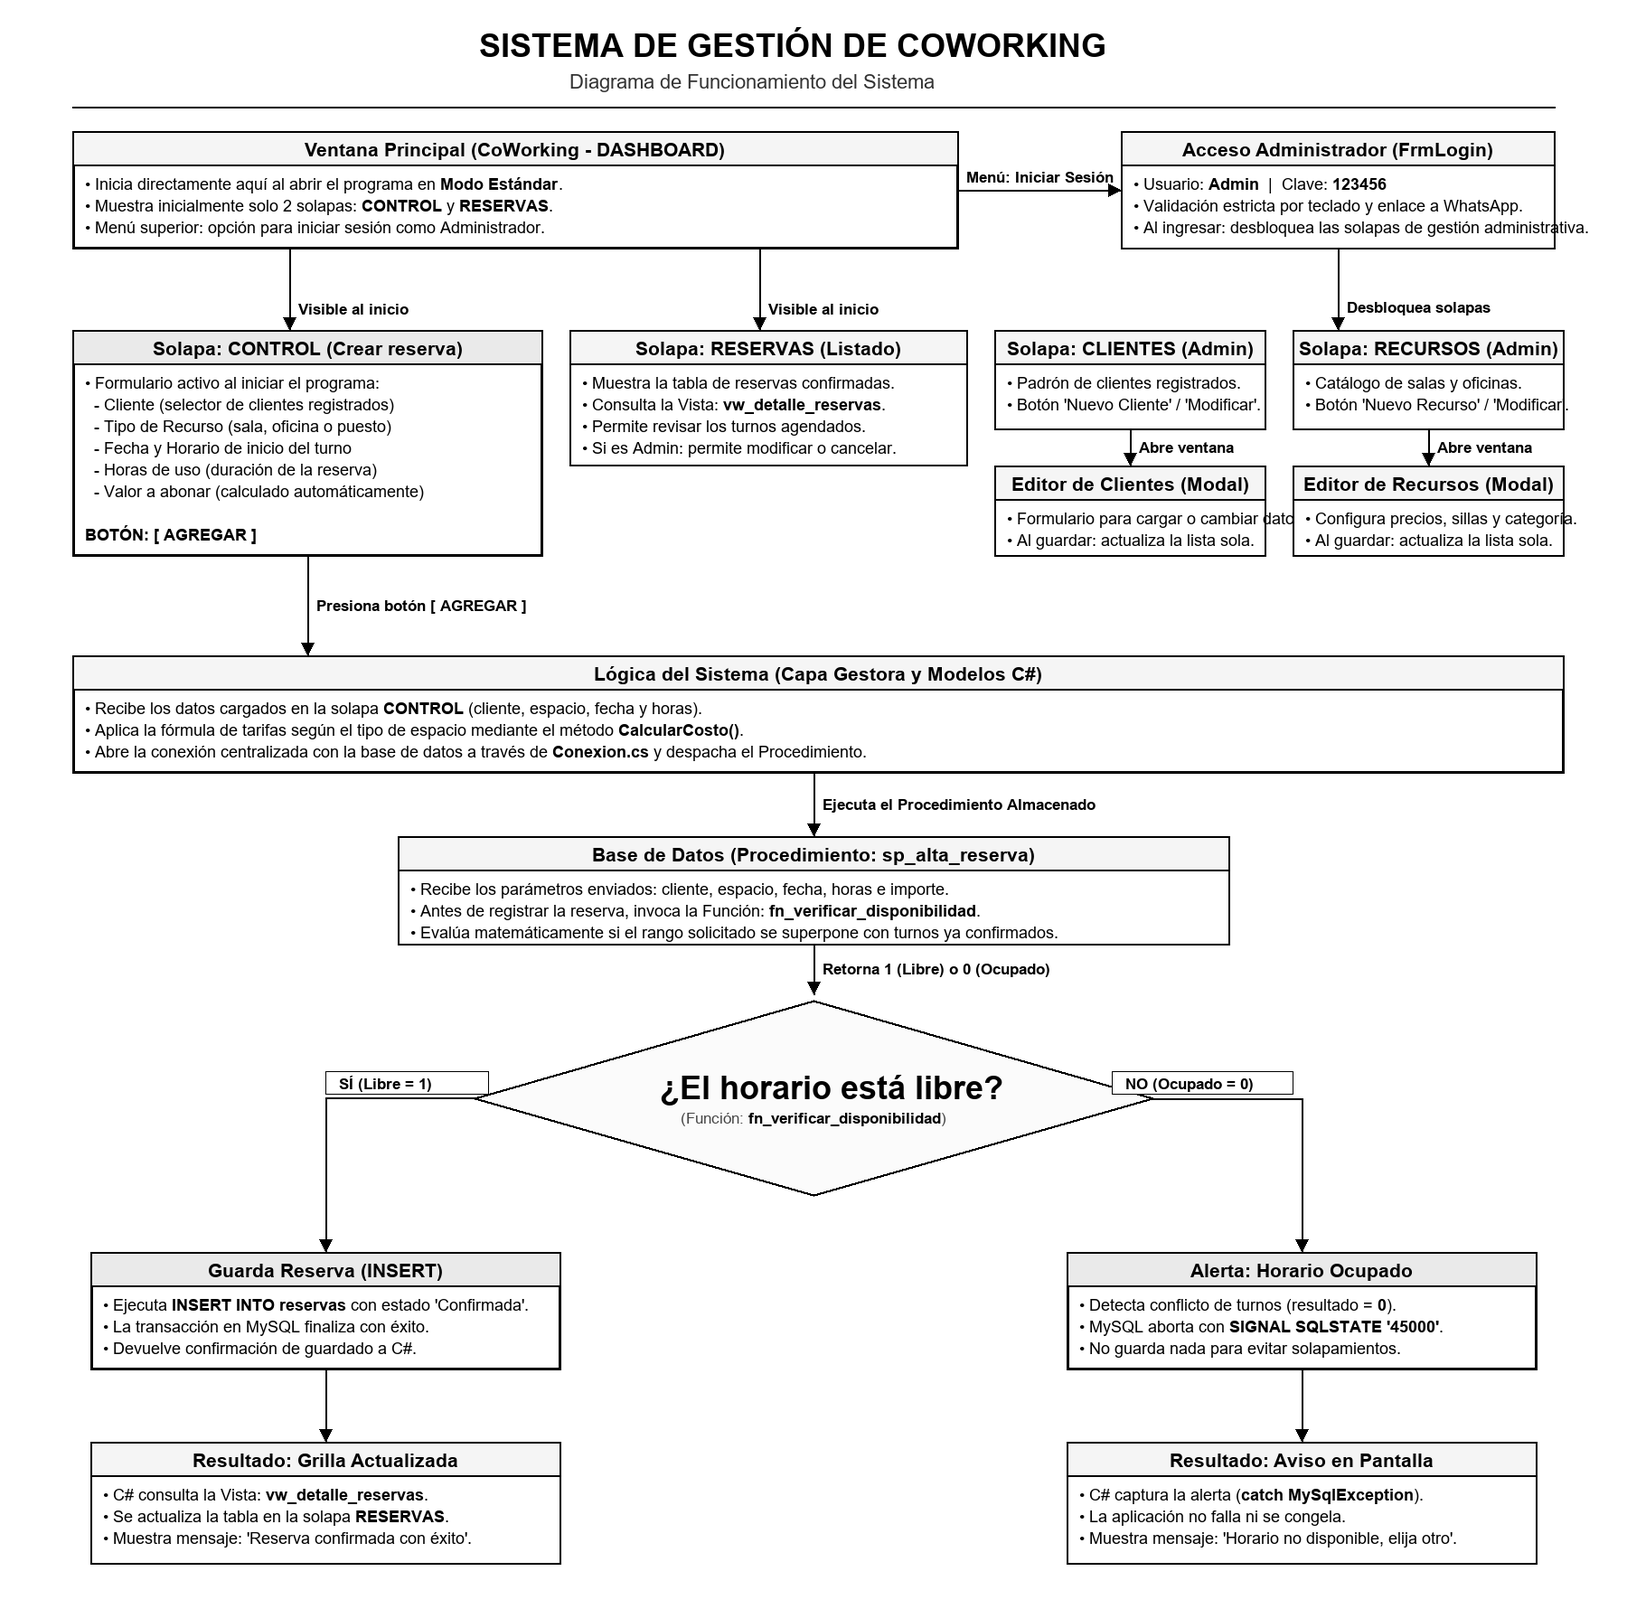
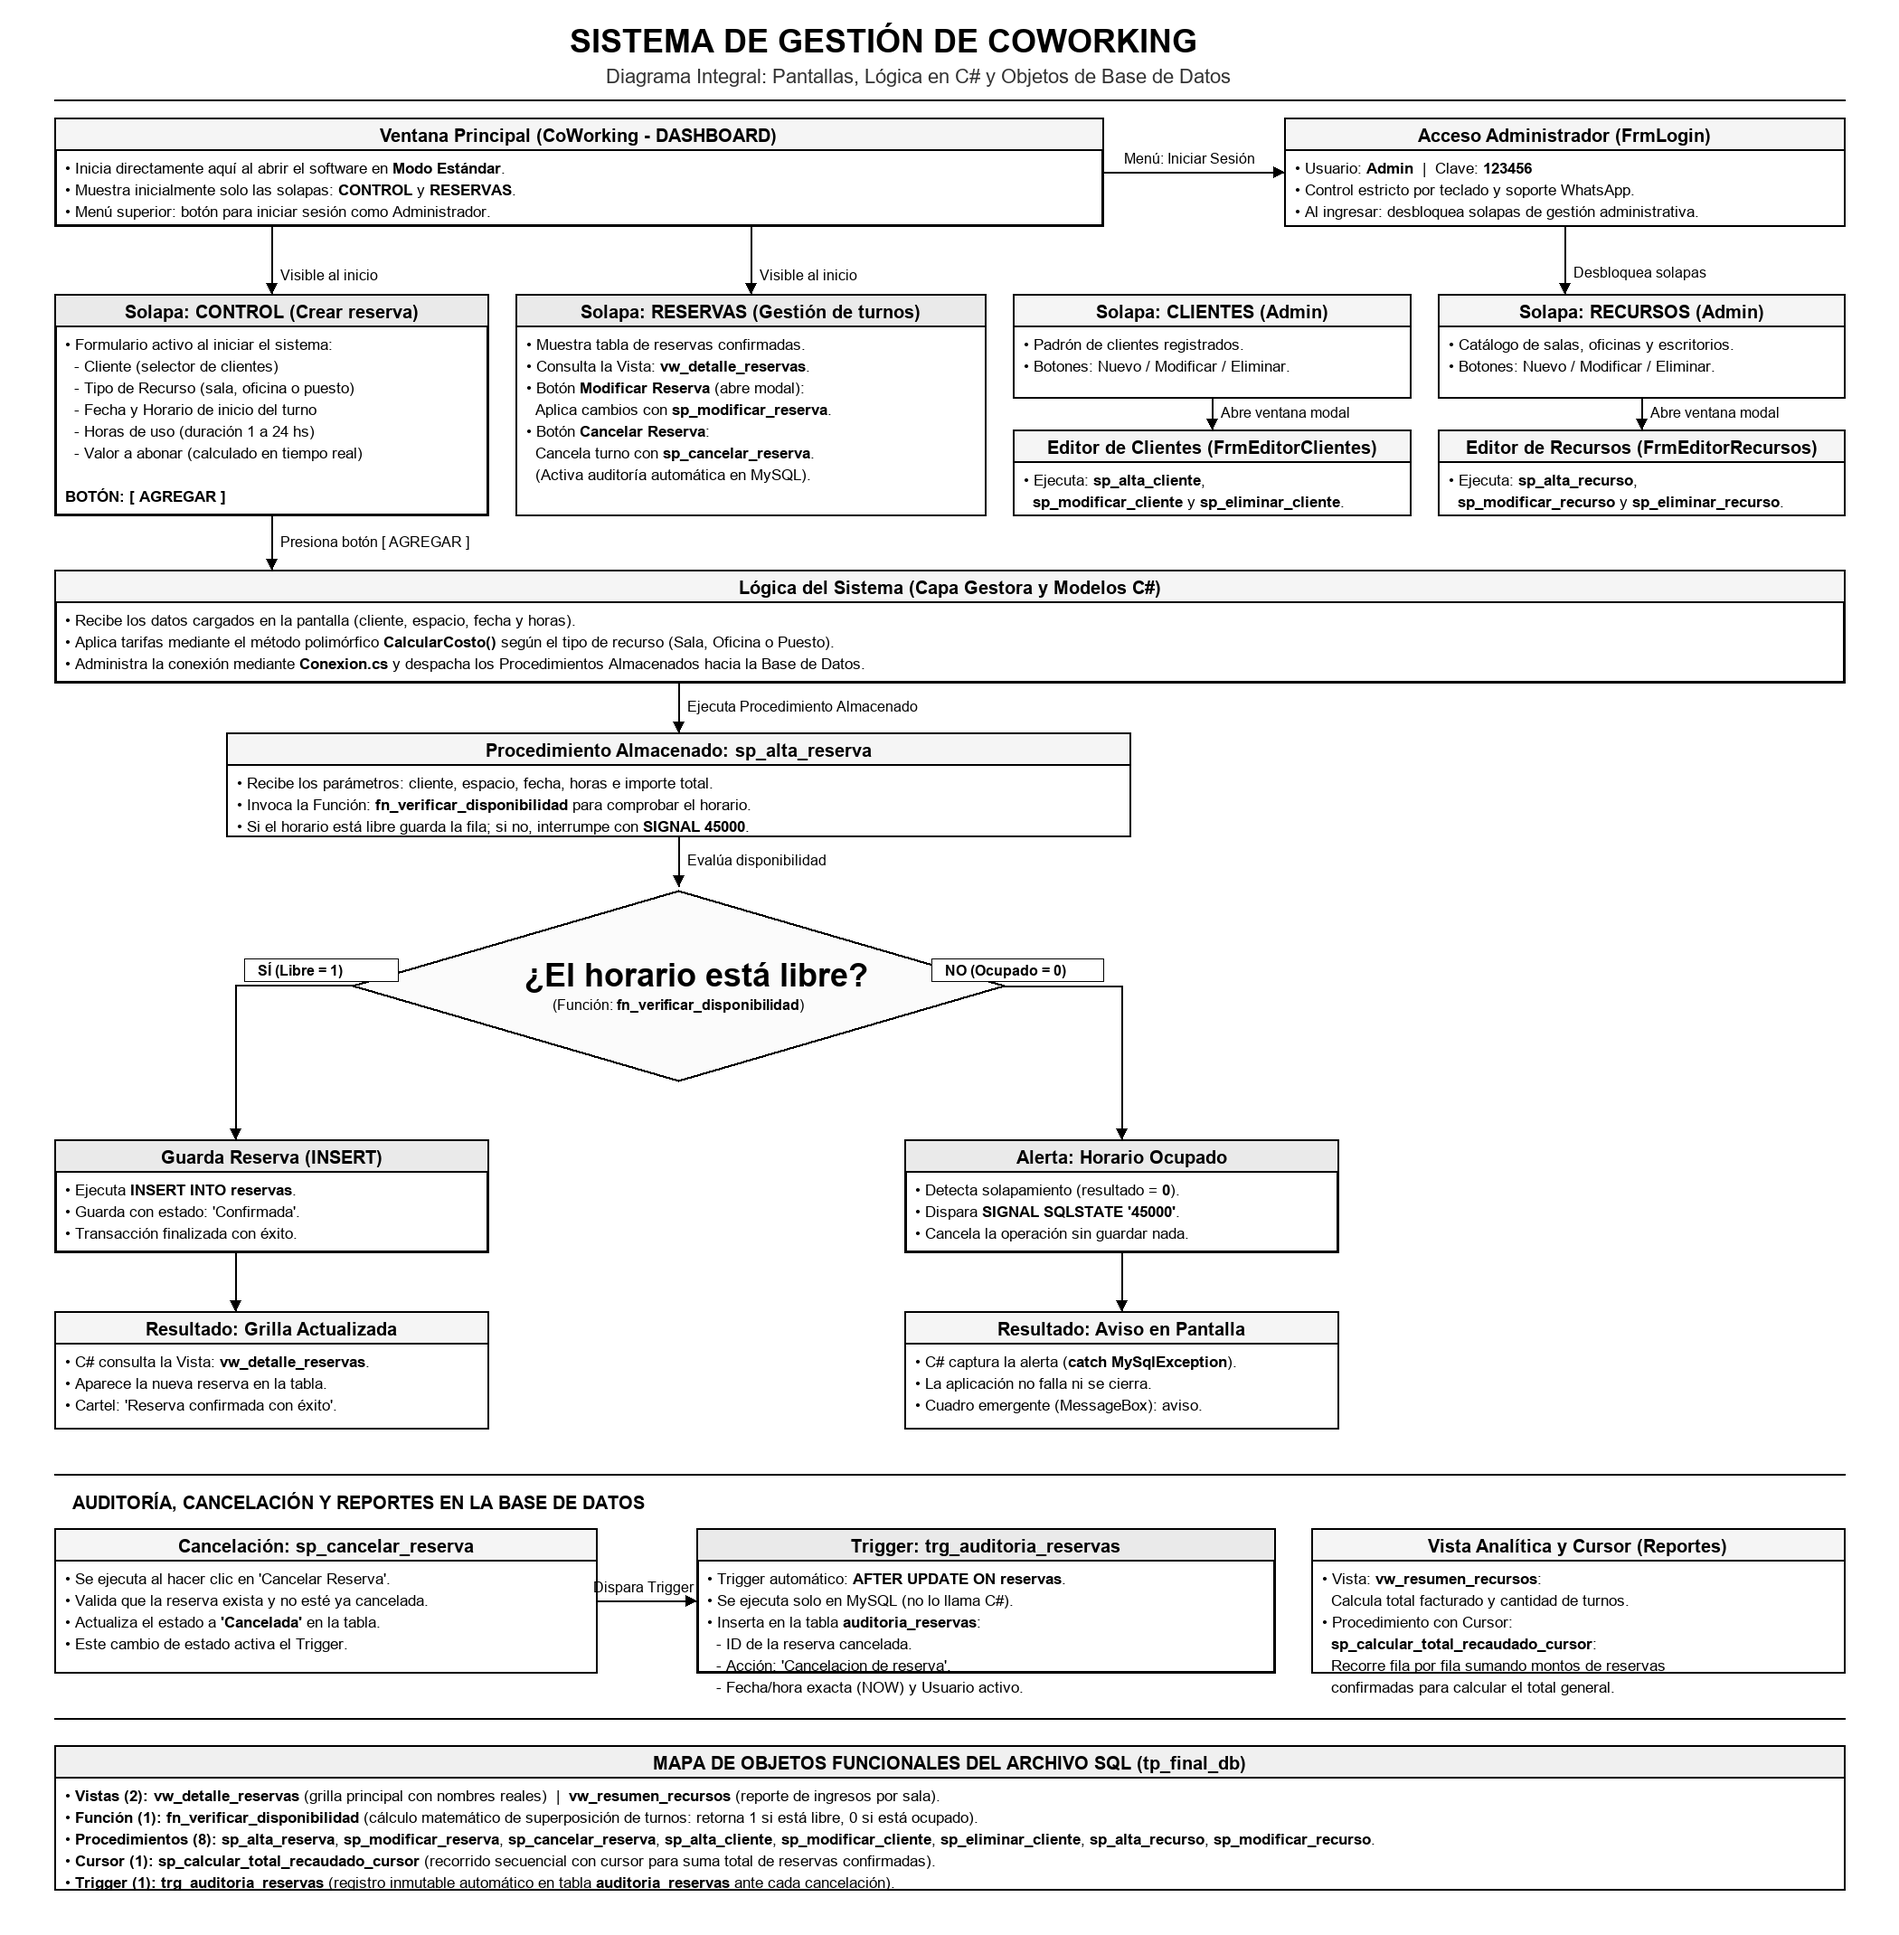
Agregue todos los objetos funcionales de sql al diagrama (vistas, trigger, cursor y procedimientos)

diff --git a/Documentacion/generate_complete_sql_diagram.py b/Documentacion/generate_complete_sql_diagram.py
@@ -1,0 +1,298 @@
+# -*- coding: utf-8 -*-
+import re
+from PIL import Image, ImageDraw, ImageFont
+
+# Canvas amplio de alta resolucion (2100 x 2550)
+W = 2100
+H = 2550
+img = Image.new("RGB", (W, H), color="#FFFFFF")
+draw = ImageDraw.Draw(img)
+
+# Fuentes
+try:
+    font_main_title = ImageFont.truetype("arialbd.ttf", 36)
+    font_main_sub   = ImageFont.truetype("arial.ttf", 22)
+    font_box_title  = ImageFont.truetype("arialbd.ttf", 20)
+    font_text       = ImageFont.truetype("arial.ttf", 17)
+    font_bold       = ImageFont.truetype("arialbd.ttf", 17)
+    font_lbl        = ImageFont.truetype("arialbd.ttf", 16)
+    font_lbl_reg    = ImageFont.truetype("arial.ttf", 16)
+except:
+    font_main_title = font_main_sub = font_box_title = font_text = font_bold = font_lbl = font_lbl_reg = ImageFont.load_default()
+
+def draw_rich_text(draw, x, y, text, default_font, bold_font, color="#000000"):
+    """Dibuja texto soportando etiquetas <b>...</b> para negrita."""
+    parts = re.split(r"(<b>.*?</b>)", text)
+    curr_x = x
+    for part in parts:
+        if not part:
+            continue
+        if part.startswith("<b>") and part.endswith("</b>"):
+            clean_part = part[3:-4]
+            f = bold_font
+        else:
+            clean_part = part
+            f = default_font
+        draw.text((curr_x, y), clean_part, fill=color, font=f)
+        bbox = draw.textbbox((0, 0), clean_part, font=f)
+        curr_x += (bbox[2] - bbox[0])
+
+def draw_box(x, y, w, h, title, lines=[], fill_header="#F5F5F5", border_w=2):
+    draw.rectangle([x, y, x + w, y + h], fill="#FFFFFF", outline="#000000", width=border_w)
+    header_h = 36
+    draw.rectangle([x, y, x + w, y + header_h], fill=fill_header, outline="#000000", width=2)
+    
+    # Titulo cabecera centrado
+    parts = re.split(r"(<b>.*?</b>)", title)
+    total_w = 0
+    for part in parts:
+        if not part: continue
+        clean_part = part[3:-4] if (part.startswith("<b>") and part.endswith("</b>")) else part
+        bbox = draw.textbbox((0, 0), clean_part, font=font_box_title)
+        total_w += (bbox[2] - bbox[0])
+    
+    start_x = x + (w - total_w) / 2
+    draw_rich_text(draw, start_x, y + 8, title, font_box_title, font_box_title)
+    
+    # Lineas
+    curr_y = y + header_h + 10
+    for line in lines:
+        draw_rich_text(draw, x + 12, curr_y, line, font_text, font_bold)
+        curr_y += 24
+
+def draw_arrow_down(x, y1, y2, label=""):
+    draw.line([x, y1, x, y2], fill="#000000", width=2)
+    draw.polygon([(x, y2), (x - 6, y2 - 12), (x + 6, y2 - 12)], fill="#000000")
+    if label:
+        draw_rich_text(draw, x + 10, (y1 + y2) / 2 - 10, label, font_lbl_reg, font_lbl)
+
+def draw_arrow_right(x1, y, x2, label=""):
+    draw.line([x1, y, x2, y], fill="#000000", width=2)
+    draw.polygon([(x2, y), (x2 - 12, y - 6), (x2 - 12, y + 6)], fill="#000000")
+    if label:
+        bbox = draw.textbbox((0, 0), label.replace("<b>", "").replace("</b>", ""), font=font_lbl)
+        tw = bbox[2] - bbox[0]
+        draw_rich_text(draw, (x1 + x2 - tw) / 2, y - 24, label, font_lbl_reg, font_lbl)
+
+# =========================================================================
+# TÍTULO SUPERIOR
+# =========================================================================
+draw.text((W/2 - 420, 25), "SISTEMA DE GESTIÓN DE COWORKING", fill="#000000", font=font_main_title)
+draw.text((W/2 - 380, 72), "Diagrama Integral: Pantallas, Lógica en C# y Objetos de Base de Datos", fill="#333333", font=font_main_sub)
+draw.line([60, 110, W - 60, 110], fill="#000000", width=2)
+
+# =========================================================================
+# 1. PANTALLA PRINCIPAL Y ACCESO ADMINISTRADOR
+# =========================================================================
+draw_box(60, 130, 1160, 120, "Ventana Principal (CoWorking - DASHBOARD)", [
+    "• Inicia directamente aquí al abrir el software en <b>Modo Estándar</b>.",
+    "• Muestra inicialmente solo las solapas: <b>CONTROL</b> y <b>RESERVAS</b>.",
+    "• Menú superior: botón para iniciar sesión como Administrador."
+], border_w=3)
+
+draw_arrow_right(1220, 190, 1420, "Menú: Iniciar Sesión")
+
+draw_box(1420, 130, 620, 120, "Acceso Administrador (FrmLogin)", [
+    "• Usuario: <b>Admin</b>  |  Clave: <b>123456</b>",
+    "• Control estricto por teclado y soporte WhatsApp.",
+    "• Al ingresar: desbloquea solapas de gestión administrativa."
+])
+
+# Flecha desde Login hacia solapas admin
+draw.line([1730, 250, 1730, 280], fill="#000000", width=2)
+draw_arrow_down(1730, 280, 325, "Desbloquea solapas")
+
+# Flecha desde FrmPrincipal hacia las 2 solapas iniciales
+draw.line([300, 250, 300, 285], fill="#000000", width=2)
+draw.line([830, 250, 830, 285], fill="#000000", width=2)
+draw_arrow_down(300, 285, 325, "Visible al inicio")
+draw_arrow_down(830, 285, 325, "Visible al inicio")
+
+# =========================================================================
+# 2. SOLAPAS DE LA VENTANA PRINCIPAL (UI)
+# =========================================================================
+# SOLAPA 1: CONTROL (Crear Reserva)
+draw_box(60, 325, 480, 245, "Solapa: CONTROL (Crear reserva)", [
+    "• Formulario activo al iniciar el sistema:",
+    "  - Cliente (selector de clientes)",
+    "  - Tipo de Recurso (sala, oficina o puesto)",
+    "  - Fecha y Horario de inicio del turno",
+    "  - Horas de uso (duración 1 a 24 hs)",
+    "  - Valor a abonar (calculado en tiempo real)",
+    "",
+    "<b>BOTÓN: [ AGREGAR ]</b>"
+], fill_header="#EAEAEA", border_w=3)
+
+# SOLAPA 2: RESERVAS (Grilla y Acciones de turno)
+draw_box(570, 325, 520, 245, "Solapa: RESERVAS (Gestión de turnos)", [
+    "• Muestra tabla de reservas confirmadas.",
+    "• Consulta la Vista: <b>vw_detalle_reservas</b>.",
+    "• Botón <b>Modificar Reserva</b> (abre modal):",
+    "  Aplica cambios con <b>sp_modificar_reserva</b>.",
+    "• Botón <b>Cancelar Reserva</b>:",
+    "  Cancela turno con <b>sp_cancelar_reserva</b>.",
+    "  (Activa auditoría automática en MySQL)."
+], fill_header="#EAEAEA", border_w=2)
+
+# SOLAPAS DESBLOQUEADAS POR ADMIN (Derecha)
+draw_box(1120, 325, 440, 115, "Solapa: CLIENTES (Admin)", [
+    "• Padrón de clientes registrados.",
+    "• Botones: Nuevo / Modificar / Eliminar."
+])
+draw_arrow_down(1340, 440, 475, "Abre ventana modal")
+draw_box(1120, 475, 440, 95, "Editor de Clientes (FrmEditorClientes)", [
+    "• Ejecuta: <b>sp_alta_cliente</b>,",
+    "  <b>sp_modificar_cliente</b> y <b>sp_eliminar_cliente</b>."
+])
+
+draw_box(1590, 325, 450, 115, "Solapa: RECURSOS (Admin)", [
+    "• Catálogo de salas, oficinas y escritorios.",
+    "• Botones: Nuevo / Modificar / Eliminar."
+])
+draw_arrow_down(1815, 440, 475, "Abre ventana modal")
+draw_box(1590, 475, 450, 95, "Editor de Recursos (FrmEditorRecursos)", [
+    "• Ejecuta: <b>sp_alta_recurso</b>,",
+    "  <b>sp_modificar_recurso</b> y <b>sp_eliminar_recurso</b>."
+])
+
+# =========================================================================
+# 3. LÓGICA DE NEGOCIO (C# .NET)
+# =========================================================================
+draw_arrow_down(300, 570, 630, "Presiona botón [ AGREGAR ]")
+
+draw_box(60, 630, 1980, 125, "Lógica del Sistema (Capa Gestora y Modelos C#)", [
+    "• Recibe los datos cargados en la pantalla (cliente, espacio, fecha y horas).",
+    "• Aplica tarifas mediante el método polimórfico <b>CalcularCosto()</b> según el tipo de recurso (Sala, Oficina o Puesto).",
+    "• Administra la conexión mediante <b>Conexion.cs</b> y despacha los Procedimientos Almacenados hacia la Base de Datos."
+], border_w=3)
+
+# =========================================================================
+# 4. BASE DE DATOS RELACIONAL (MySQL - tp_final_db)
+# =========================================================================
+draw_arrow_down(750, 755, 810, "Ejecuta Procedimiento Almacenado")
+
+# Procedimiento sp_alta_reserva
+draw_box(250, 810, 1000, 115, "Procedimiento Almacenado: <b>sp_alta_reserva</b>", [
+    "• Recibe los parámetros: cliente, espacio, fecha, horas e importe total.",
+    "• Invoca la Función: <b>fn_verificar_disponibilidad</b> para comprobar el horario.",
+    "• Si el horario está libre guarda la fila; si no, interrumpe con <b>SIGNAL 45000</b>."
+], border_w=2)
+
+draw_arrow_down(750, 925, 980, "Evalúa disponibilidad")
+
+# Rombo de decisión disponibilidad
+rx, ry, rw, rh = 750, 1090, 720, 210
+rombo_pts = [(rx, ry - rh/2), (rx + rw/2, ry), (rx, ry + rh/2), (rx - rw/2, ry)]
+draw.polygon(rombo_pts, fill="#FBFBFB", outline="#000000")
+draw.line(rombo_pts + [rombo_pts[0]], fill="#000000", width=3)
+
+draw.text((rx - 170, ry - 32), "¿El horario está libre?", fill="#000000", font=font_main_title)
+
+# Subtexto rombo
+func_txt = "(Función: <b>fn_verificar_disponibilidad</b>)"
+parts = re.split(r"(<b>.*?</b>)", func_txt)
+tw = 0
+for p in parts:
+    clean_p = p[3:-4] if (p.startswith("<b>") and p.endswith("</b>")) else p
+    f = font_lbl if (p.startswith("<b>") and p.endswith("</b>")) else font_lbl_reg
+    bbox = draw.textbbox((0, 0), clean_p, font=f)
+    tw += (bbox[2] - bbox[0])
+draw_rich_text(draw, rx - tw / 2, ry + 12, func_txt, font_lbl_reg, font_lbl)
+
+# -------------------------------------------------------------------------
+# RAMA SÍ: LIBRE = 1 (Izquierda)
+# -------------------------------------------------------------------------
+draw.line([rx - rw/2, ry, 260, ry], fill="#000000", width=2)
+draw_arrow_down(260, ry, 1260, "")
+draw.rectangle([270, ry - 30, 440, ry - 5], fill="#FFFFFF", outline="#000000", width=1)
+draw.text((285, ry - 26), "SÍ (Libre = 1)", fill="#000000", font=font_lbl)
+
+draw_box(60, 1260, 480, 125, "Guarda Reserva (<b>INSERT</b>)", [
+    "• Ejecuta <b>INSERT INTO reservas</b>.",
+    "• Guarda con estado: 'Confirmada'.",
+    "• Transacción finalizada con éxito."
+], fill_header="#EAEAEA", border_w=3)
+
+draw_arrow_down(260, 1385, 1450, "")
+draw_box(60, 1450, 480, 130, "Resultado: Grilla Actualizada", [
+    "• C# consulta la Vista: <b>vw_detalle_reservas</b>.",
+    "• Aparece la nueva reserva en la tabla.",
+    "• Cartel: 'Reserva confirmada con éxito'."
+], border_w=2)
+
+# -------------------------------------------------------------------------
+# RAMA NO: OCUPADO = 0 (Centro / Derecha)
+# -------------------------------------------------------------------------
+draw.line([rx + rw/2, ry, 1240, ry], fill="#000000", width=2)
+draw_arrow_down(1240, ry, 1260, "")
+draw.rectangle([1030, ry - 30, 1220, ry - 5], fill="#FFFFFF", outline="#000000", width=1)
+draw.text((1045, ry - 26), "NO (Ocupado = 0)", fill="#000000", font=font_lbl)
+
+draw_box(1000, 1260, 480, 125, "Alerta: Horario Ocupado", [
+    "• Detecta solapamiento (resultado = <b>0</b>).",
+    "• Dispara <b>SIGNAL SQLSTATE '45000'</b>.",
+    "• Cancela la operación sin guardar nada."
+], fill_header="#EAEAEA", border_w=3)
+
+draw_arrow_down(1240, 1385, 1450, "")
+draw_box(1000, 1450, 480, 130, "Resultado: Aviso en Pantalla", [
+    "• C# captura la alerta (<b>catch MySqlException</b>).",
+    "• La aplicación no falla ni se cierra.",
+    "• Cuadro emergente (MessageBox): aviso."
+], border_w=2)
+
+# =========================================================================
+# 5. MÓDULO DE AUDITORÍA Y CANCELACIONES (MySQL)
+# =========================================================================
+draw.line([60, 1630, W - 60, 1630], fill="#000000", width=2)
+draw.text((80, 1650), "AUDITORÍA, CANCELACIÓN Y REPORTES EN LA BASE DE DATOS", fill="#000000", font=font_box_title)
+
+# Flujo Cancelar -> Trigger
+draw_box(60, 1690, 600, 160, "Cancelación: <b>sp_cancelar_reserva</b>", [
+    "• Se ejecuta al hacer clic en 'Cancelar Reserva'.",
+    "• Valida que la reserva exista y no esté ya cancelada.",
+    "• Actualiza el estado a <b>'Cancelada'</b> en la tabla.",
+    "• Este cambio de estado activa el Trigger."
+], border_w=2)
+
+draw_arrow_right(660, 1770, 770, "Dispara Trigger")
+
+# Trigger Auditoria
+draw_box(770, 1690, 640, 160, "Trigger: <b>trg_auditoria_reservas</b>", [
+    "• Trigger automático: <b>AFTER UPDATE ON reservas</b>.",
+    "• Se ejecuta solo en MySQL (no lo llama C#).",
+    "• Inserta en la tabla <b>auditoria_reservas</b>:",
+    "  - ID de la reserva cancelada.",
+    "  - Acción: 'Cancelacion de reserva'.",
+    "  - Fecha/hora exacta (NOW) y Usuario activo."
+], fill_header="#EAEAEA", border_w=3)
+
+# Flujo Vistas y Cursor (Derecha)
+draw_box(1450, 1690, 590, 160, "Vista Analítica y Cursor (Reportes)", [
+    "• Vista: <b>vw_resumen_recursos</b>:",
+    "  Calcula total facturado y cantidad de turnos.",
+    "• Procedimiento con Cursor:",
+    "  <b>sp_calcular_total_recaudado_cursor</b>:",
+    "  Recorre fila por fila sumando montos de reservas",
+    "  confirmadas para calcular el total general."
+], border_w=2)
+
+# =========================================================================
+# CUADRO DE RESUMEN DE OBJETOS SQL (PIE DE PÁGINA)
+# =========================================================================
+draw.line([60, 1900, W - 60, 1900], fill="#000000", width=2)
+
+draw_box(60, 1930, 1980, 160, "MAPA DE OBJETOS FUNCIONALES DEL ARCHIVO SQL (tp_final_db)", [
+    "• <b>Vistas (2):</b> <b>vw_detalle_reservas</b> (grilla principal con nombres reales)  |  <b>vw_resumen_recursos</b> (reporte de ingresos por sala).",
+    "• <b>Función (1):</b> <b>fn_verificar_disponibilidad</b> (cálculo matemático de superposición de turnos: retorna 1 si está libre, 0 si está ocupado).",
+    "• <b>Procedimientos (8):</b> <b>sp_alta_reserva</b>, <b>sp_modificar_reserva</b>, <b>sp_cancelar_reserva</b>, <b>sp_alta_cliente</b>, <b>sp_modificar_cliente</b>, <b>sp_eliminar_cliente</b>, <b>sp_alta_recurso</b>, <b>sp_modificar_recurso</b>.",
+    "• <b>Cursor (1):</b> <b>sp_calcular_total_recaudado_cursor</b> (recorrido secuencial con cursor para suma total de reservas confirmadas).",
+    "• <b>Trigger (1):</b> <b>trg_auditoria_reservas</b> (registro inmutable automático en tabla <b>auditoria_reservas</b> ante cada cancelación)."
+], fill_header="#F0F0F0", border_w=2)
+
+final_h = 2140
+img_clean = img.crop((0, 0, W, final_h))
+
+output_png = r"c:\xampp\htdocs\ALGORITMOS2\Trabajo_final_algoritmos\Documentacion\diagrama_imprimible.png"
+img_clean.save(output_png, "PNG", dpi=(300, 300))
+print("Diagrama con el 100% de los objetos SQL guardado exitosamente en:", output_png)
